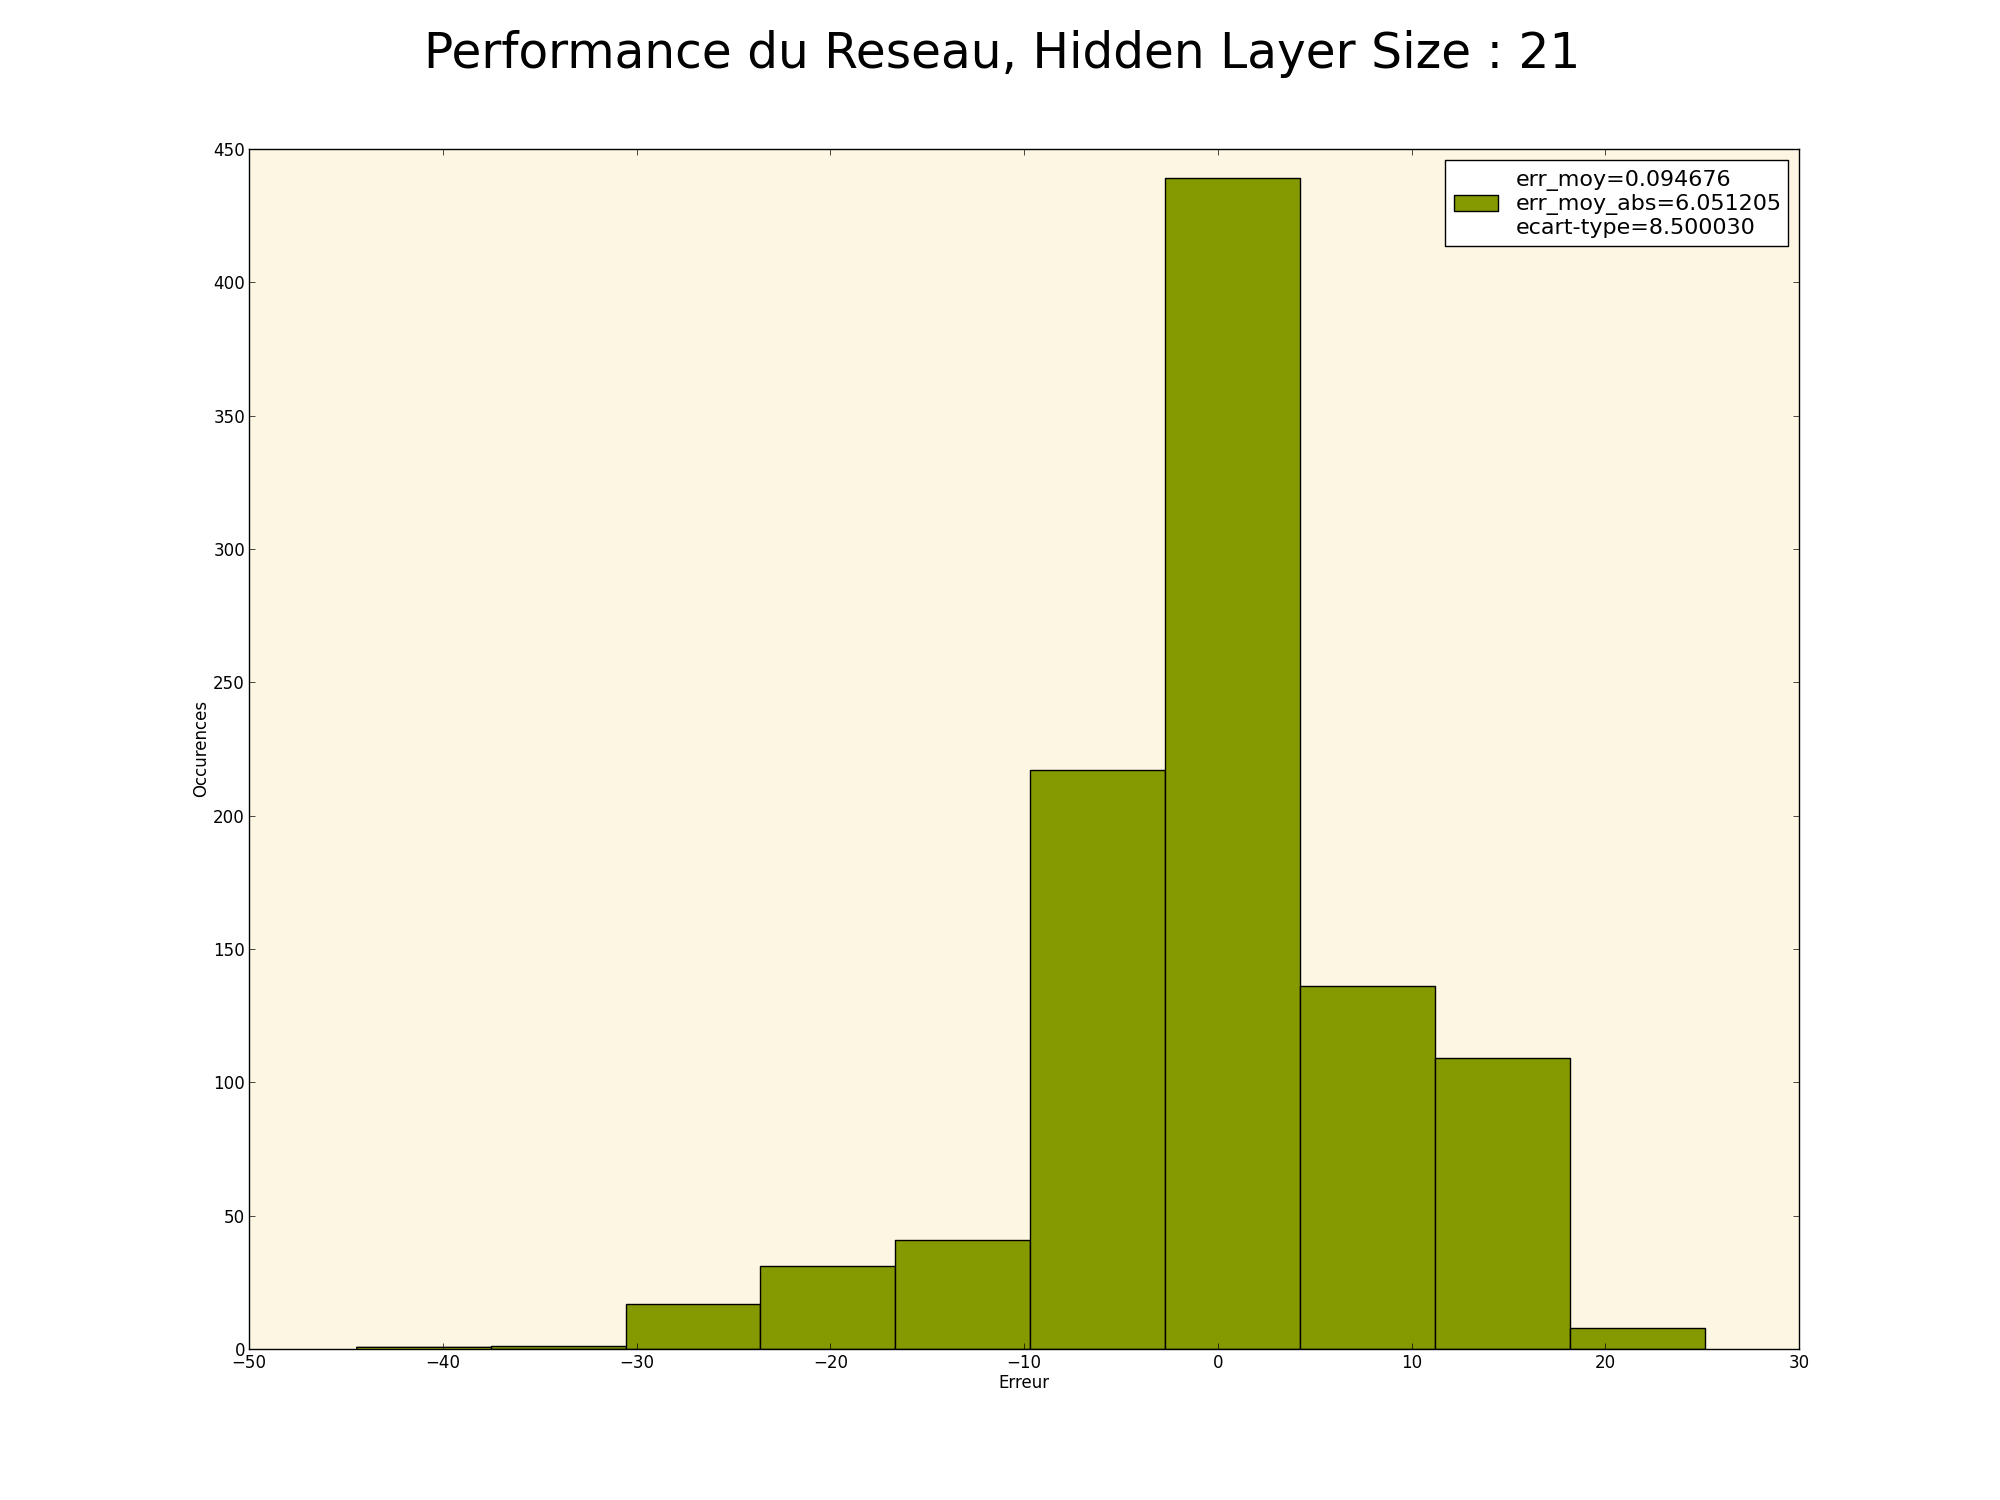
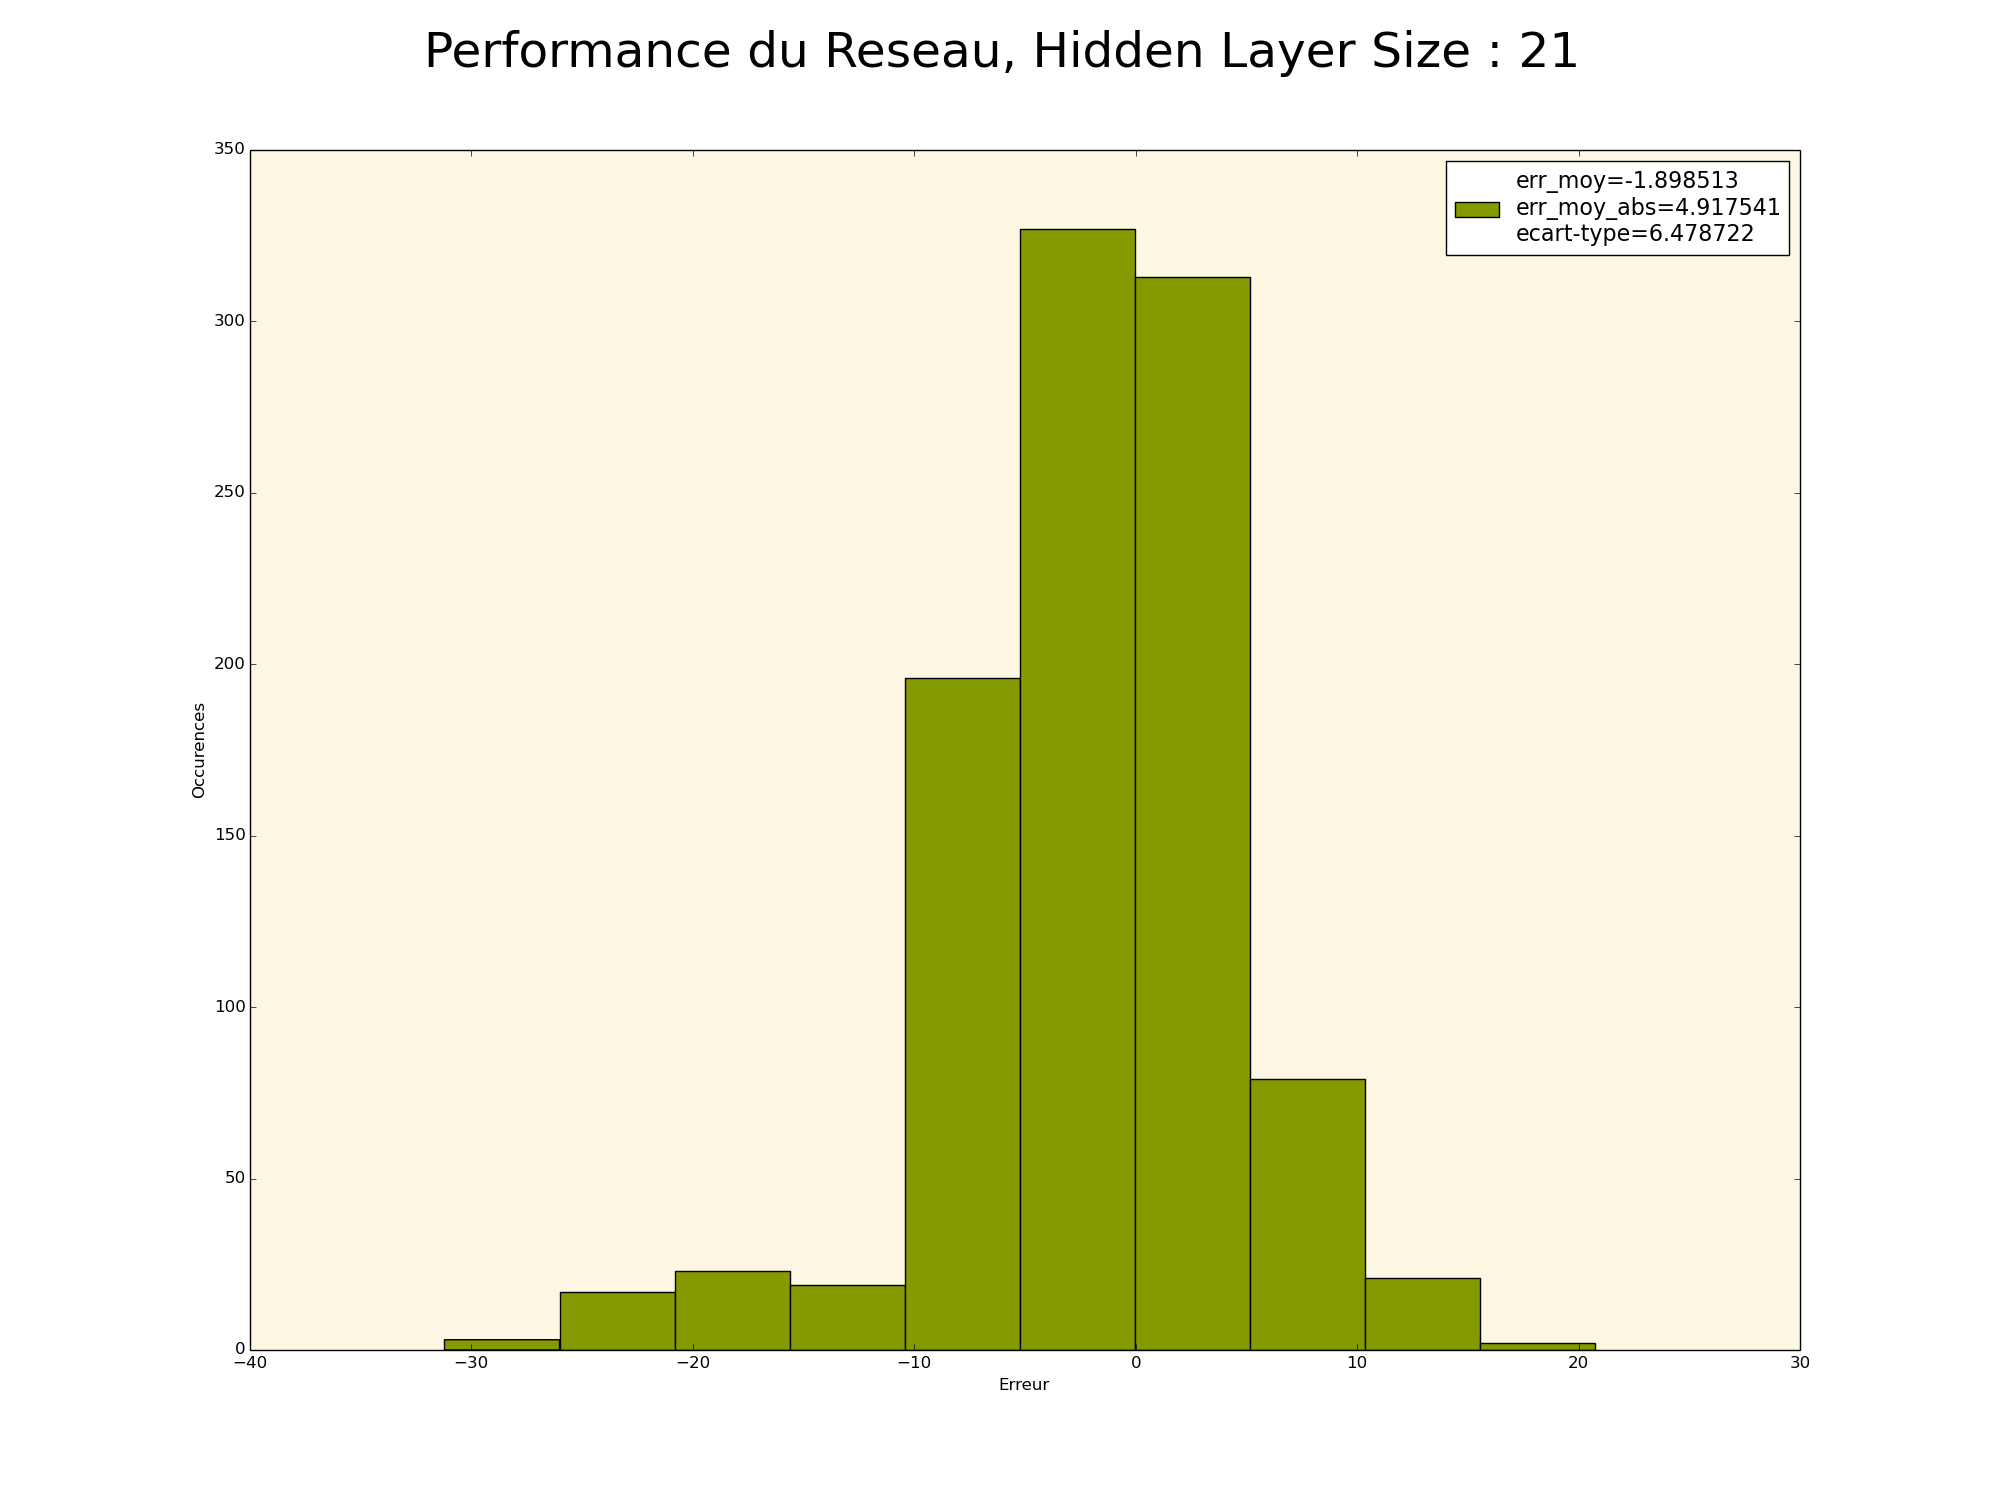
MMCN Projet Final Done

diff --git a/MMCN/Projet/online_ml/testcase.py b/MMCN/Projet/online_ml/testcase.py
@@ -110,7 +110,7 @@ def tuningCurves(fname=None):
     plt.close(fig)
 
 # 3. Représenter graphiquement la sortie du réseau
-def graph_sorti(ann,minErrs,hlNum=20,fname=None):
+def graph_sorti(ann,minErrs,hlNum=21,fname=None):
     fig = plt.figure(figsize=(20, 15))
     plt.suptitle('Sortie du Reseau, Hidden Layer Size : %d'%hlNum, fontsize=35)
     plt.subplot(311,axisbg="#fdf6e3")
@@ -149,8 +149,49 @@ def graph_sorti(ann,minErrs,hlNum=20,fname=None):
         plt.savefig(fname)
     plt.close(fig)
 
+# 3. Représenter graphiquement la couche cachée du réseau
+def graph_hidden(ann,minErrs,hlNum=21,fname=None):
+    fig = plt.figure(figsize=(20, 15))
+    plt.suptitle('Sortie de la Couche Cachee du Reseau, Hidden Layer Size : %d'%hlNum, fontsize=35)
+    plt.subplot(311,axisbg="#fdf6e3")
+    i = minErrs[0]
+    Y = ann.get_hiddenZ(testX[i])
+    X = range(21)
+    # y = np.arange(np.max(Y),-0.2,-0.01)
+    # x = np.argmax(Y)*np.ones(len(y))
+    plt.bar(X,Y, label="x=%d, r=%d"%(testX[i][0],testX[i][-1]),color="#2aa198",linewidth="1")
+    # plt.plot(x,y,'--',color="#cb4b16",linewidth="2")
+    plt.ylabel("Activity")
+    plt.legend()
+    
+    plt.subplot(312,axisbg="#fdf6e3")
+    i = minErrs[10]
+    Y = ann.get_hiddenZ(testX[i])
+    # y = np.arange(np.max(Y),-0.2,-0.01)
+    # x = np.argmax(Y)*np.ones(len(y))
+    plt.bar(X,Y, label="x=%d, r=%d"%(testX[i][0],testX[i][-1]),color="#2aa198",linewidth="1")
+    # plt.plot(x,y,'--',color="#cb4b16",linewidth="2")
+    plt.ylabel("Activity")
+    plt.legend()
+    
+    plt.subplot(313,axisbg="#fdf6e3")
+    i = minErrs[200]
+    Y = ann.get_hiddenZ(testX[i])
+    # y = np.arange(np.max(Y),-0.2,-0.01)
+    # x = np.argmax(Y)*np.ones(len(y))
+    plt.bar(X,Y, label="x=%d, r=%d"%(testX[i][0],testX[i][-1]),color="#2aa198",linewidth="1")
+    # plt.plot(x,y,'--',color="#cb4b16",linewidth="2")
+    plt.xlabel("Neuron Index")
+    plt.ylabel("Activity")
+    plt.legend()
+    if fname==None:
+        plt.show()
+    else:
+        plt.savefig(fname)
+    plt.close(fig)
+
 # 4. Estimer la performance du réseau
-def performance(err_list,hlNum=20,fname=None):
+def performance(err_list,hlNum=21,fname=None):
     moy   = np.mean(err_list)
     moyAbs= np.mean(abs(err_list))
     std   = np.std(err_list)
@@ -177,12 +218,14 @@ tuningCurves("TuningCurves.png")
 y_vrai = lambda x : x[0] + x[-1]
 erreur = lambda yv, ye : yv - ye
 
-for hlNum in [11]:
+ann = None
+
+for hlNum in [21]:
     annList    = []
     moyList    = []
     moyAbsList = []
     stdList    = []
-    for i in range(20):
+    for i in range(1):
         elist  = []
         minErrs= []
         ann = NeuroNetwork([[sigmoid,grad_sigmoid,64,hlNum]],91,eta=0.01)
@@ -192,11 +235,14 @@ for hlNum in [11]:
             err= erreur(yv,ann.y_esti(x))
             elist.append(err)
         elist = np.array(elist)
-        minErrs = np.array(sorted(zip(np.arange(len(elist)),np.abs(elist)),key=itemgetter(1)))[:3,0]
+        minErrs = np.array(sorted(zip(np.arange(len(elist)),np.abs(elist)),key=itemgetter(1)))[:,0]
         graph_sorti(ann,minErrs,hlNum,"LaSortieDuReseau[%d][hlNum%d].png"%(i,hlNum))
+        graph_hidden(ann,minErrs,hlNum,"LaSortieCoucheCacheeDuReseau[%d][hlNum%d].png"%(i,hlNum))
         moy,moyAbs,std = performance(elist,hlNum,"LaPerformanceDuReseau[%d][hlNum%d].png"%(i,hlNum))
         moyList.append(moy)
         moyAbsList.append(moyAbs)
         stdList.append(std)
-    np.savetxt("err_moy_std[hlNum%d].txt"%hlNum,np.array(zip(moyList,moyAbsList,stdList)))
+    # np.savetxt("err_moy_std[hlNum%d].txt"%hlNum,np.array(zip(moyList,moyAbsList,stdList)))
 
+
+    

diff --git a/MMCN/Projet/online_ml/ANN.py b/MMCN/Projet/online_ml/ANN.py
@@ -136,3 +136,6 @@ class NeuroNetwork(Classifier):
     def get_output(self,x):
         self.forward(x)
         return self.outputLayer.Z
+    def get_hiddenZ(self,x):
+        self.forward(x)
+        return self.hiddenLayers[-1].Z

diff --git a/MMCN/Projet/online_ml/mytools.py b/MMCN/Projet/online_ml/mytools.py
@@ -45,3 +45,4 @@ def input_layer_active(D,N1=41,N2=11,N3=11): # D est un vector de taille N1+N2+N
         else:
             d[i] = rMiAct(data,i,N3)
     return d
+
